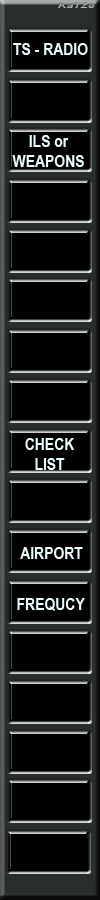
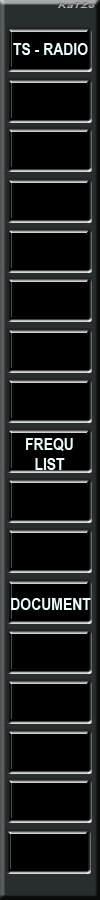
Gestion Document Test Comao du 23/02

diff --git a/KaTZ-Pit_SU25.html b/KaTZ-Pit_SU25.html
@@ -111,10 +111,10 @@
 		<area shape="rect" coords="10,280,90,320" href="javascript:menu_Toggle('Weapon')">		
 		<area shape="rect" coords="10,320,90,380" href="javascript:menu_Toggle('Vierge')">		
 		<area shape="rect" coords="10,380,90,420" href="javascript:menu_Toggle('Vierge')">
-		<area shape="rect" coords="10,420,90,480" href="javascript:menu_Toggle('Vierge')">
+		<area shape="rect" coords="10,420,90,480" href="javascript:menu_Toggle('FreqList')">
 		<area shape="rect" coords="10,480,90,520" href="javascript:menu_Toggle('Vierge')">
 		<area shape="rect" coords="10,520,90,580" href="javascript:menu_Toggle('Vierge')">
-		<area shape="rect" coords="10,580,90,620" href="javascript:menu_Toggle('FreqList')">
+		<area shape="rect" coords="10,580,90,620" href="javascript:menu_Toggle('Doc')">
 		<area shape="rect" coords="10,620,90,680" href="javascript:menu_Toggle('Vierge')">
 		<area shape="rect" coords="10,680,90,720" href="javascript:menu_Toggle('Vierge')">
 		<area shape="rect" coords="10,720,90,780" href="javascript:menu_Toggle('Vierge')">
@@ -1024,7 +1024,42 @@
 <!-- xxxxxxxxxxxxxxxxxxxxxxxxxxxxxxxxxxxxxxxxxxxxxxxxxxxxxxxxxxxxxxxxxxxxxxxxxxxxxxxxxxxxxxxxxxxxxxxxxxxxx -->
 <div id="Frequency_List">
 	<img src="doc/ToF.png" width="744" height="687"> 
-</div>	
+</div>
+
+<div id="Panel_Doc">
+
+	<img src="doc/Doc_Menu.png" width="600" height="800" usemap="#Doc_P"> 
+	
+	<map name="Doc_P">
+
+			<!-- Check List -->
+			<area shape="rect" coords="10,160,100,200" href="javascript:menu_Affiche(1)">
+			<area shape="rect" coords="10,200,100,240" href="javascript:menu_Affiche(2)">
+			<area shape="rect" coords="10,240,100,280" href="javascript:menu_Affiche(3)">
+			<area shape="rect" coords="10,280,100,320" href="javascript:menu_Affiche(4)">
+			<area shape="rect" coords="10,320,100,360" href="javascript:menu_Affiche(5)">
+			
+			<!-- Brief Mission -->
+			<area shape="rect" coords="10,400,100,430" href="javascript:menu_Affiche(6)">
+			<area shape="rect" coords="10,430,100,470" href="javascript:menu_Affiche(7)">
+			
+			<!-- Photo Mission -->
+			<area shape="rect" coords="10,470,100,510" href="javascript:menu_Affiche(8)">
+			<area shape="rect" coords="10,510,100,550" href="javascript:menu_Affiche(9)">
+			
+			<!-- Document Nav -->
+			<area shape="rect" coords="10,585,100,622" href="javascript:menu_Affiche(11)">
+			<area shape="rect" coords="10,623,100,657" href="javascript:menu_Affiche(12)">
+			<area shape="rect" coords="10,658,100,693" href="javascript:menu_Affiche(13)">
+			<area shape="rect" coords="10,694,100,730" href="javascript:menu_Affiche(14)">
+			<area shape="rect" coords="10,730,100,765" href="javascript:menu_Affiche(15)">
+			
+	</map> 
+	
+	<SPAN style="position: absolute; left: 110px; top: 155px; width: 800px; height: 600px" usemap="#Doc_Aff_P">
+	<img src="doc/Doc_Affiche_0.png" width="800" height="600" id="Doc_Affiche"> </SPAN>
+	
+</div>		
 
 
   

diff --git a/KaTZ-Pit_SU33.html b/KaTZ-Pit_SU33.html
@@ -108,10 +108,10 @@
 		<area shape="rect" coords="10,280,90,320" href="javascript:menu_Toggle('Vierge')">		
 		<area shape="rect" coords="10,320,90,380" href="javascript:menu_Toggle('Vierge')">		
 		<area shape="rect" coords="10,380,90,420" href="javascript:menu_Toggle('Vierge')">
-		<area shape="rect" coords="10,420,90,480" href="javascript:menu_Toggle('Vierge')">
+		<area shape="rect" coords="10,420,90,480" href="javascript:menu_Toggle('FreqList')">
 		<area shape="rect" coords="10,480,90,520" href="javascript:menu_Toggle('Vierge')">
 		<area shape="rect" coords="10,520,90,580" href="javascript:menu_Toggle('Vierge')">
-		<area shape="rect" coords="10,580,90,620" href="javascript:menu_Toggle('FreqList')">
+		<area shape="rect" coords="10,580,90,620" href="javascript:menu_Toggle('Doc')">
 		<area shape="rect" coords="10,620,90,680" href="javascript:menu_Toggle('Vierge')">
 		<area shape="rect" coords="10,680,90,720" href="javascript:menu_Toggle('Vierge')">
 		<area shape="rect" coords="10,720,90,780" href="javascript:menu_Toggle('Vierge')">
@@ -976,6 +976,41 @@
 
 <div id="Frequency_List">
 	<img src="doc/ToF.png" width="744" height="687"> 
+</div>	
+
+<div id="Panel_Doc">
+
+	<img src="doc/Doc_Menu.png" width="600" height="800" usemap="#Doc_P"> 
+	
+	<map name="Doc_P">
+
+			<!-- Check List -->
+			<area shape="rect" coords="10,160,100,200" href="javascript:menu_Affiche(1)">
+			<area shape="rect" coords="10,200,100,240" href="javascript:menu_Affiche(2)">
+			<area shape="rect" coords="10,240,100,280" href="javascript:menu_Affiche(3)">
+			<area shape="rect" coords="10,280,100,320" href="javascript:menu_Affiche(4)">
+			<area shape="rect" coords="10,320,100,360" href="javascript:menu_Affiche(5)">
+			
+			<!-- Brief Mission -->
+			<area shape="rect" coords="10,400,100,430" href="javascript:menu_Affiche(6)">
+			<area shape="rect" coords="10,430,100,470" href="javascript:menu_Affiche(7)">
+			
+			<!-- Photo Mission -->
+			<area shape="rect" coords="10,470,100,510" href="javascript:menu_Affiche(8)">
+			<area shape="rect" coords="10,510,100,550" href="javascript:menu_Affiche(9)">
+			
+			<!-- Document Nav -->
+			<area shape="rect" coords="10,585,100,622" href="javascript:menu_Affiche(11)">
+			<area shape="rect" coords="10,623,100,657" href="javascript:menu_Affiche(12)">
+			<area shape="rect" coords="10,658,100,693" href="javascript:menu_Affiche(13)">
+			<area shape="rect" coords="10,694,100,730" href="javascript:menu_Affiche(14)">
+			<area shape="rect" coords="10,730,100,765" href="javascript:menu_Affiche(15)">
+			
+	</map> 
+	
+	<SPAN style="position: absolute; left: 110px; top: 155px; width: 800px; height: 600px" usemap="#Doc_Aff_P">
+	<img src="doc/Doc_Affiche_0.png" width="800" height="600" id="Doc_Affiche"> </SPAN>
+	
 </div>	
   
 </body>

diff --git a/KaTZ-Pit_F15.html b/KaTZ-Pit_F15.html
@@ -112,10 +112,10 @@
 		<area shape="rect" coords="10,280,90,320" href="javascript:menu_Toggle('Weapon')">		
 		<area shape="rect" coords="10,320,90,380" href="javascript:menu_Toggle('Vierge')">		
 		<area shape="rect" coords="10,380,90,420" href="javascript:menu_Toggle('Vierge')">
-		<area shape="rect" coords="10,420,90,480" href="javascript:menu_Toggle('Vierge')">
+		<area shape="rect" coords="10,420,90,480" href="javascript:menu_Toggle('FreqList')">
 		<area shape="rect" coords="10,480,90,520" href="javascript:menu_Toggle('Vierge')">
 		<area shape="rect" coords="10,520,90,580" href="javascript:menu_Toggle('Vierge')">
-		<area shape="rect" coords="10,580,90,620" href="javascript:menu_Toggle('FreqList')">
+		<area shape="rect" coords="10,580,90,620" href="javascript:menu_Toggle('Doc')">
 		<area shape="rect" coords="10,620,90,680" href="javascript:menu_Toggle('Vierge')">
 		<area shape="rect" coords="10,680,90,720" href="javascript:menu_Toggle('Vierge')">
 		<area shape="rect" coords="10,720,90,780" href="javascript:menu_Toggle('Vierge')">
@@ -881,6 +881,41 @@
 
 <div id="Frequency_List">
 	<img src="doc/ToF.png" width="744" height="687"> 
+</div>	
+
+<div id="Panel_Doc">
+
+	<img src="doc/Doc_Menu.png" width="600" height="800" usemap="#Doc_P"> 
+	
+	<map name="Doc_P">
+
+			<!-- Check List -->
+			<area shape="rect" coords="10,160,100,200" href="javascript:menu_Affiche(1)">
+			<area shape="rect" coords="10,200,100,240" href="javascript:menu_Affiche(2)">
+			<area shape="rect" coords="10,240,100,280" href="javascript:menu_Affiche(3)">
+			<area shape="rect" coords="10,280,100,320" href="javascript:menu_Affiche(4)">
+			<area shape="rect" coords="10,320,100,360" href="javascript:menu_Affiche(5)">
+			
+			<!-- Brief Mission -->
+			<area shape="rect" coords="10,400,100,430" href="javascript:menu_Affiche(6)">
+			<area shape="rect" coords="10,430,100,470" href="javascript:menu_Affiche(7)">
+			
+			<!-- Photo Mission -->
+			<area shape="rect" coords="10,470,100,510" href="javascript:menu_Affiche(8)">
+			<area shape="rect" coords="10,510,100,550" href="javascript:menu_Affiche(9)">
+			
+			<!-- Document Nav -->
+			<area shape="rect" coords="10,585,100,622" href="javascript:menu_Affiche(11)">
+			<area shape="rect" coords="10,623,100,657" href="javascript:menu_Affiche(12)">
+			<area shape="rect" coords="10,658,100,693" href="javascript:menu_Affiche(13)">
+			<area shape="rect" coords="10,694,100,730" href="javascript:menu_Affiche(14)">
+			<area shape="rect" coords="10,730,100,765" href="javascript:menu_Affiche(15)">
+			
+	</map> 
+	
+	<SPAN style="position: absolute; left: 110px; top: 155px; width: 800px; height: 600px" usemap="#Doc_Aff_P">
+	<img src="doc/Doc_Affiche_0.png" width="800" height="600" id="Doc_Affiche"> </SPAN>
+	
 </div>	
 
 

diff --git a/KaTZ-Pit_Mig29.html b/KaTZ-Pit_Mig29.html
@@ -109,10 +109,10 @@
 		<area shape="rect" coords="10,280,90,320" href="javascript:menu_Toggle('Vierge')">		
 		<area shape="rect" coords="10,320,90,380" href="javascript:menu_Toggle('Vierge')">		
 		<area shape="rect" coords="10,380,90,420" href="javascript:menu_Toggle('Vierge')">
-		<area shape="rect" coords="10,420,90,480" href="javascript:menu_Toggle('Vierge')">
+		<area shape="rect" coords="10,420,90,480" href="javascript:menu_Toggle('FreqList')">
 		<area shape="rect" coords="10,480,90,520" href="javascript:menu_Toggle('Vierge')">
 		<area shape="rect" coords="10,520,90,580" href="javascript:menu_Toggle('Vierge')">
-		<area shape="rect" coords="10,580,90,620" href="javascript:menu_Toggle('FreqList')">
+		<area shape="rect" coords="10,580,90,620" href="javascript:menu_Toggle('Doc')">
 		<area shape="rect" coords="10,620,90,680" href="javascript:menu_Toggle('Vierge')">
 		<area shape="rect" coords="10,680,90,720" href="javascript:menu_Toggle('Vierge')">
 		<area shape="rect" coords="10,720,90,780" href="javascript:menu_Toggle('Vierge')">
@@ -991,6 +991,41 @@
 
 <div id="Frequency_List">
 	<img src="doc/ToF.png" width="744" height="687"> 
+</div>	
+
+<div id="Panel_Doc">
+
+	<img src="doc/Doc_Menu.png" width="600" height="800" usemap="#Doc_P"> 
+	
+	<map name="Doc_P">
+
+			<!-- Check List -->
+			<area shape="rect" coords="10,160,100,200" href="javascript:menu_Affiche(1)">
+			<area shape="rect" coords="10,200,100,240" href="javascript:menu_Affiche(2)">
+			<area shape="rect" coords="10,240,100,280" href="javascript:menu_Affiche(3)">
+			<area shape="rect" coords="10,280,100,320" href="javascript:menu_Affiche(4)">
+			<area shape="rect" coords="10,320,100,360" href="javascript:menu_Affiche(5)">
+			
+			<!-- Brief Mission -->
+			<area shape="rect" coords="10,400,100,430" href="javascript:menu_Affiche(6)">
+			<area shape="rect" coords="10,430,100,470" href="javascript:menu_Affiche(7)">
+			
+			<!-- Photo Mission -->
+			<area shape="rect" coords="10,470,100,510" href="javascript:menu_Affiche(8)">
+			<area shape="rect" coords="10,510,100,550" href="javascript:menu_Affiche(9)">
+			
+			<!-- Document Nav -->
+			<area shape="rect" coords="10,585,100,622" href="javascript:menu_Affiche(11)">
+			<area shape="rect" coords="10,623,100,657" href="javascript:menu_Affiche(12)">
+			<area shape="rect" coords="10,658,100,693" href="javascript:menu_Affiche(13)">
+			<area shape="rect" coords="10,694,100,730" href="javascript:menu_Affiche(14)">
+			<area shape="rect" coords="10,730,100,765" href="javascript:menu_Affiche(15)">
+			
+	</map> 
+	
+	<SPAN style="position: absolute; left: 110px; top: 155px; width: 800px; height: 600px" usemap="#Doc_Aff_P">
+	<img src="doc/Doc_Affiche_0.png" width="800" height="600" id="Doc_Affiche"> </SPAN>
+	
 </div>	
 
 

diff --git a/js/menu.js b/js/menu.js
@@ -58,7 +58,33 @@ function menu_Toggle(panel){
 	if (Panel_On["FreqList"] == 0) {document.getElementById("Frequency_List").style.display = "none"}
 	else {document.getElementById("Frequency_List").style.display = "block"}
 
-	
+	if (Panel_On["Doc"] == 0) {document.getElementById("Panel_Doc").style.display = "none"}
+	else {document.getElementById("Panel_Doc").style.display = "block"}
 
-	
+		
 }	
+
+function menu_Affiche(num){
+
+	document.getElementById("Panel_Doc").style.display = "block"
+	if (num == 1){$("#Doc_Affiche").attr("src","doc/Check_1.png")}
+	if (num == 2){$("#Doc_Affiche").attr("src","doc/Check_2.png")}
+	if (num == 3){$("#Doc_Affiche").attr("src","doc/Check_3.png")}
+	if (num == 4){$("#Doc_Affiche").attr("src","doc/Check_4.png")}
+	if (num == 5){$("#Doc_Affiche").attr("src","doc/Check_5.png")}
+	
+	if (num == 6){$("#Doc_Affiche").attr("src","doc/MisBrief_1.png")}
+	if (num == 7){$("#Doc_Affiche").attr("src","doc/MisBrief_2.png")}
+	
+	if (num == 8){$("#Doc_Affiche").attr("src","doc/MisPhoto_1.png")}
+	if (num == 9){$("#Doc_Affiche").attr("src","doc/MisPhoto_2.png")}
+	
+	if (num == 11){$("#Doc_Affiche").attr("src","doc/Nav_1.png")}
+	if (num == 12){$("#Doc_Affiche").attr("src","doc/Nav_2.png")}
+	if (num == 13){$("#Doc_Affiche").attr("src","doc/Nav_3.png")}
+	if (num == 14){$("#Doc_Affiche").attr("src","doc/Nav_4.png")}
+	if (num == 15){$("#Doc_Affiche").attr("src","doc/Nav_5.png")}
+	
+	if (num == 99) {document.getElementById("Panel_Doc").style.display = "none"}
+	
+}

diff --git a/js/pit_init.js b/js/pit_init.js
@@ -9,7 +9,7 @@ function panel_On_init(){
 
 var Panel_On = { Init:0, Breakers:0, Electric_DC:0, Electric_AC:0, APU:0, Oil:1, Start:0, Rotor:1, Analog_1:0, Analog_2:0, 
 	ARK_9:0, ARK_UD:0, Doppler:0, Radio_360:1, Fuel:1, Vierge:0, Navigation:1, Target:1, Weapon:1, UV26:0, ILS:1, ILS_15:0,
-	CheckList:0, FreqList:0,
+	CheckList:0, FreqList:0, Doc:0,
 	Pilototo:1,Datalink:0, Abris:0}
 
 return (Panel_On);

diff --git a/css/KaTZ-Pit_SU33.css b/css/KaTZ-Pit_SU33.css
@@ -236,7 +236,7 @@ p {
 #Frequency_List {
 	position: absolute;
 	top: 250px;
-	left: 1810px;
+	left: 1740px;
 }
 
 #Panel_Detection {
@@ -246,6 +246,14 @@ p {
 
 	font-family:arial, sans-serif;
 	text-align: center; 
+}
+
+#Panel_Doc {
+	position: absolute;
+	top: 100px;
+	left: 1740px;
+	/* Dimension 500 x 200			              */
+	
 }
 
 

diff --git a/css/KaTZ-Pit_SU25.css b/css/KaTZ-Pit_SU25.css
@@ -235,5 +235,13 @@ p {
 #Frequency_List {
 	position: absolute;
 	top: 250px;
-	left: 1610px;
+	left: 1740px;
+}
+
+#Panel_Doc {
+	position: absolute;
+	top: 100px;
+	left: 1740px;
+	/* Dimension 500 x 200			              */
+	
 }

diff --git a/css/KaTZ-Pit_F15.css b/css/KaTZ-Pit_F15.css
@@ -242,3 +242,11 @@ p {
 	top: 250px;
 	left: 1810px;
 }
+
+#Panel_Doc {
+	position: absolute;
+	top: 100px;
+	left: 1810px;
+	/* Dimension 500 x 200			              */
+	
+}

diff --git a/css/KaTZ-Pit_M29.css b/css/KaTZ-Pit_M29.css
@@ -230,3 +230,11 @@ p {
 	left: 1810px;
 }
 
+#Panel_Doc {
+	position: absolute;
+	top: 100px;
+	left: 1810px;
+	/* Dimension 500 x 200			              */
+	
+}
+
